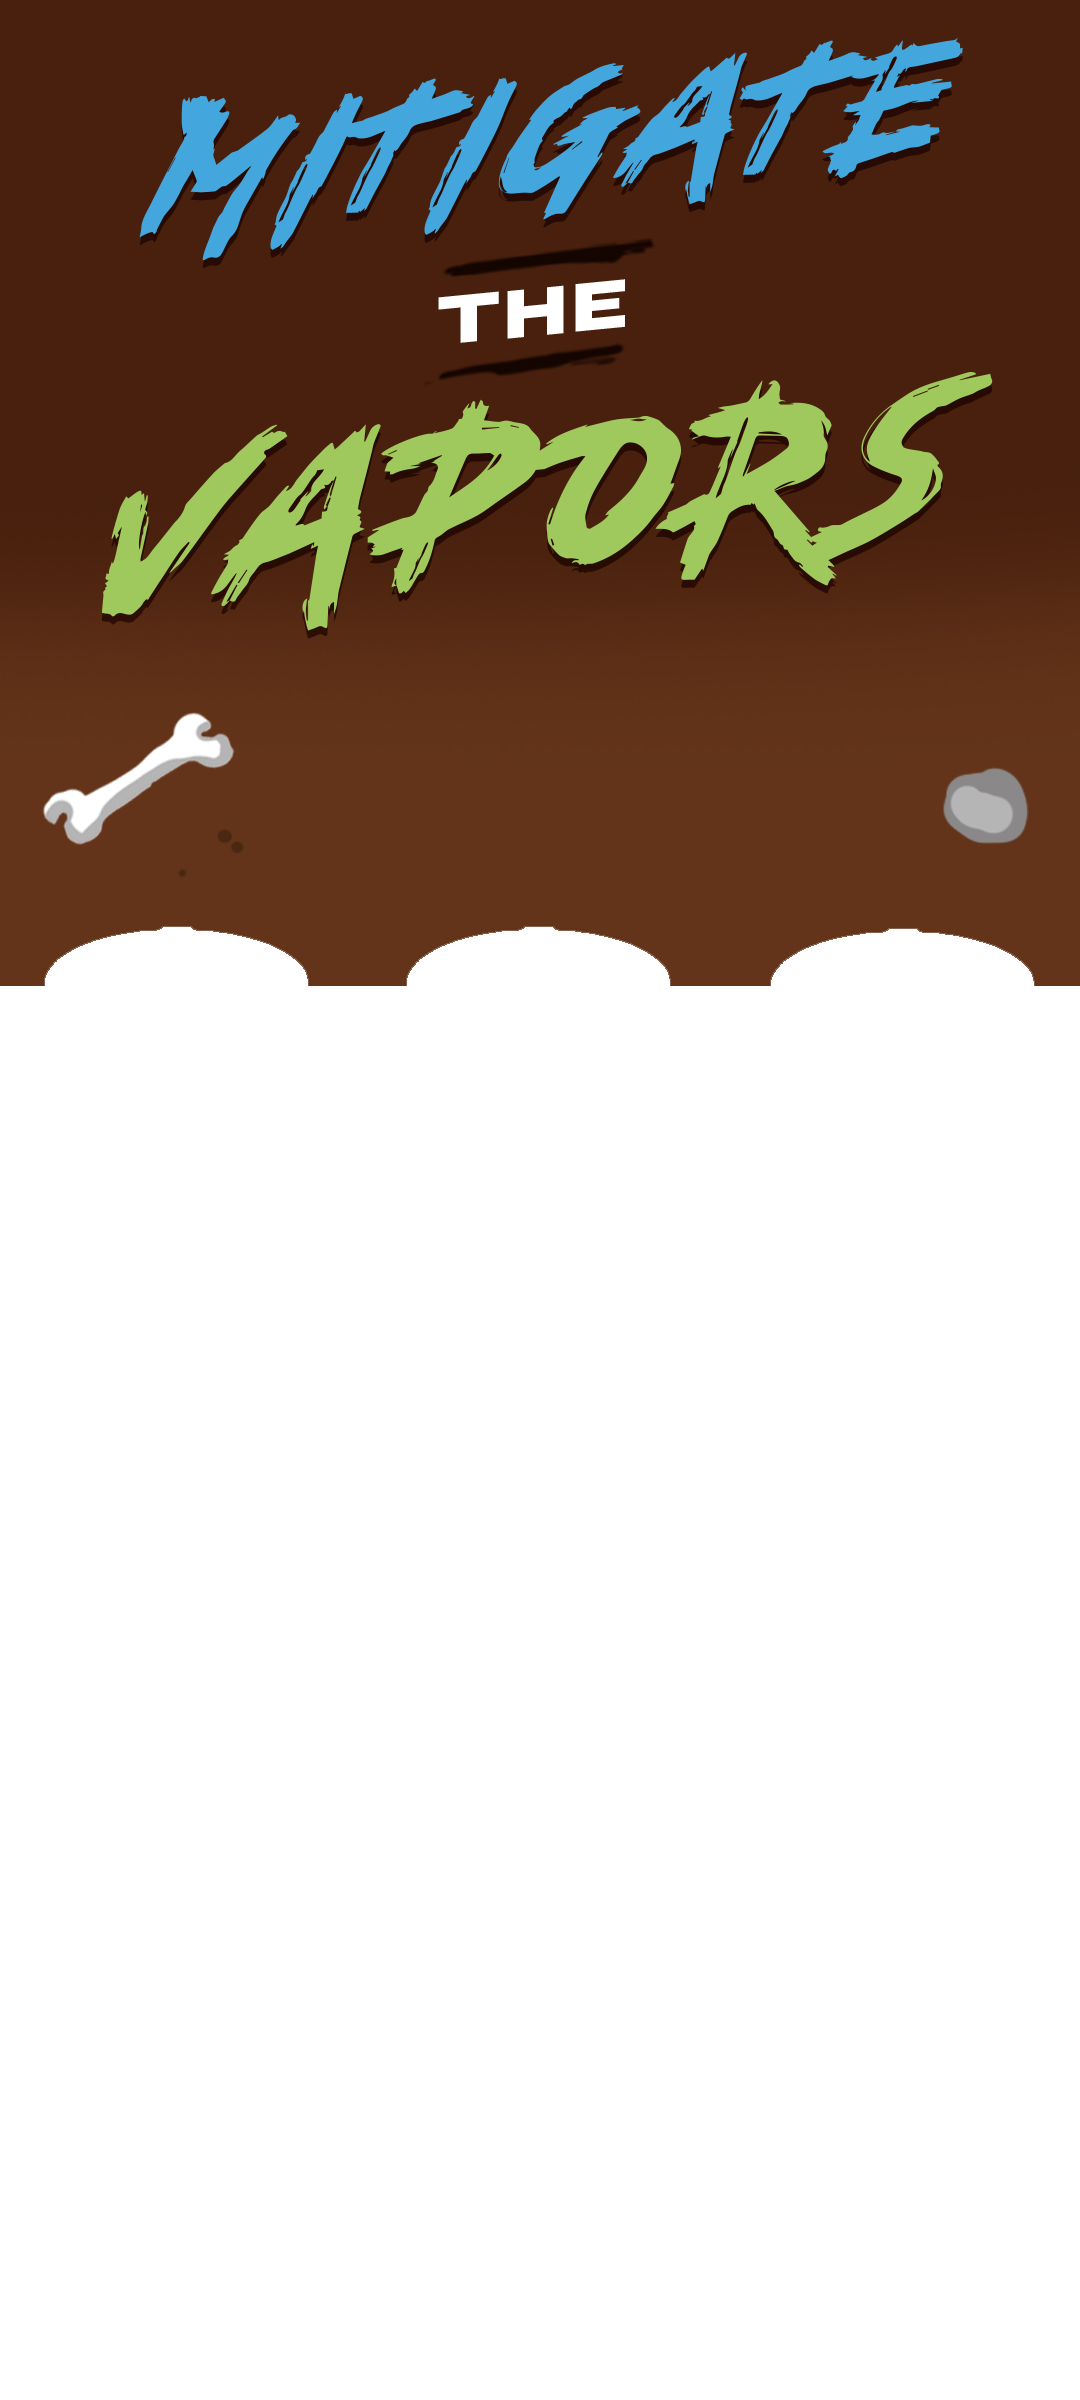
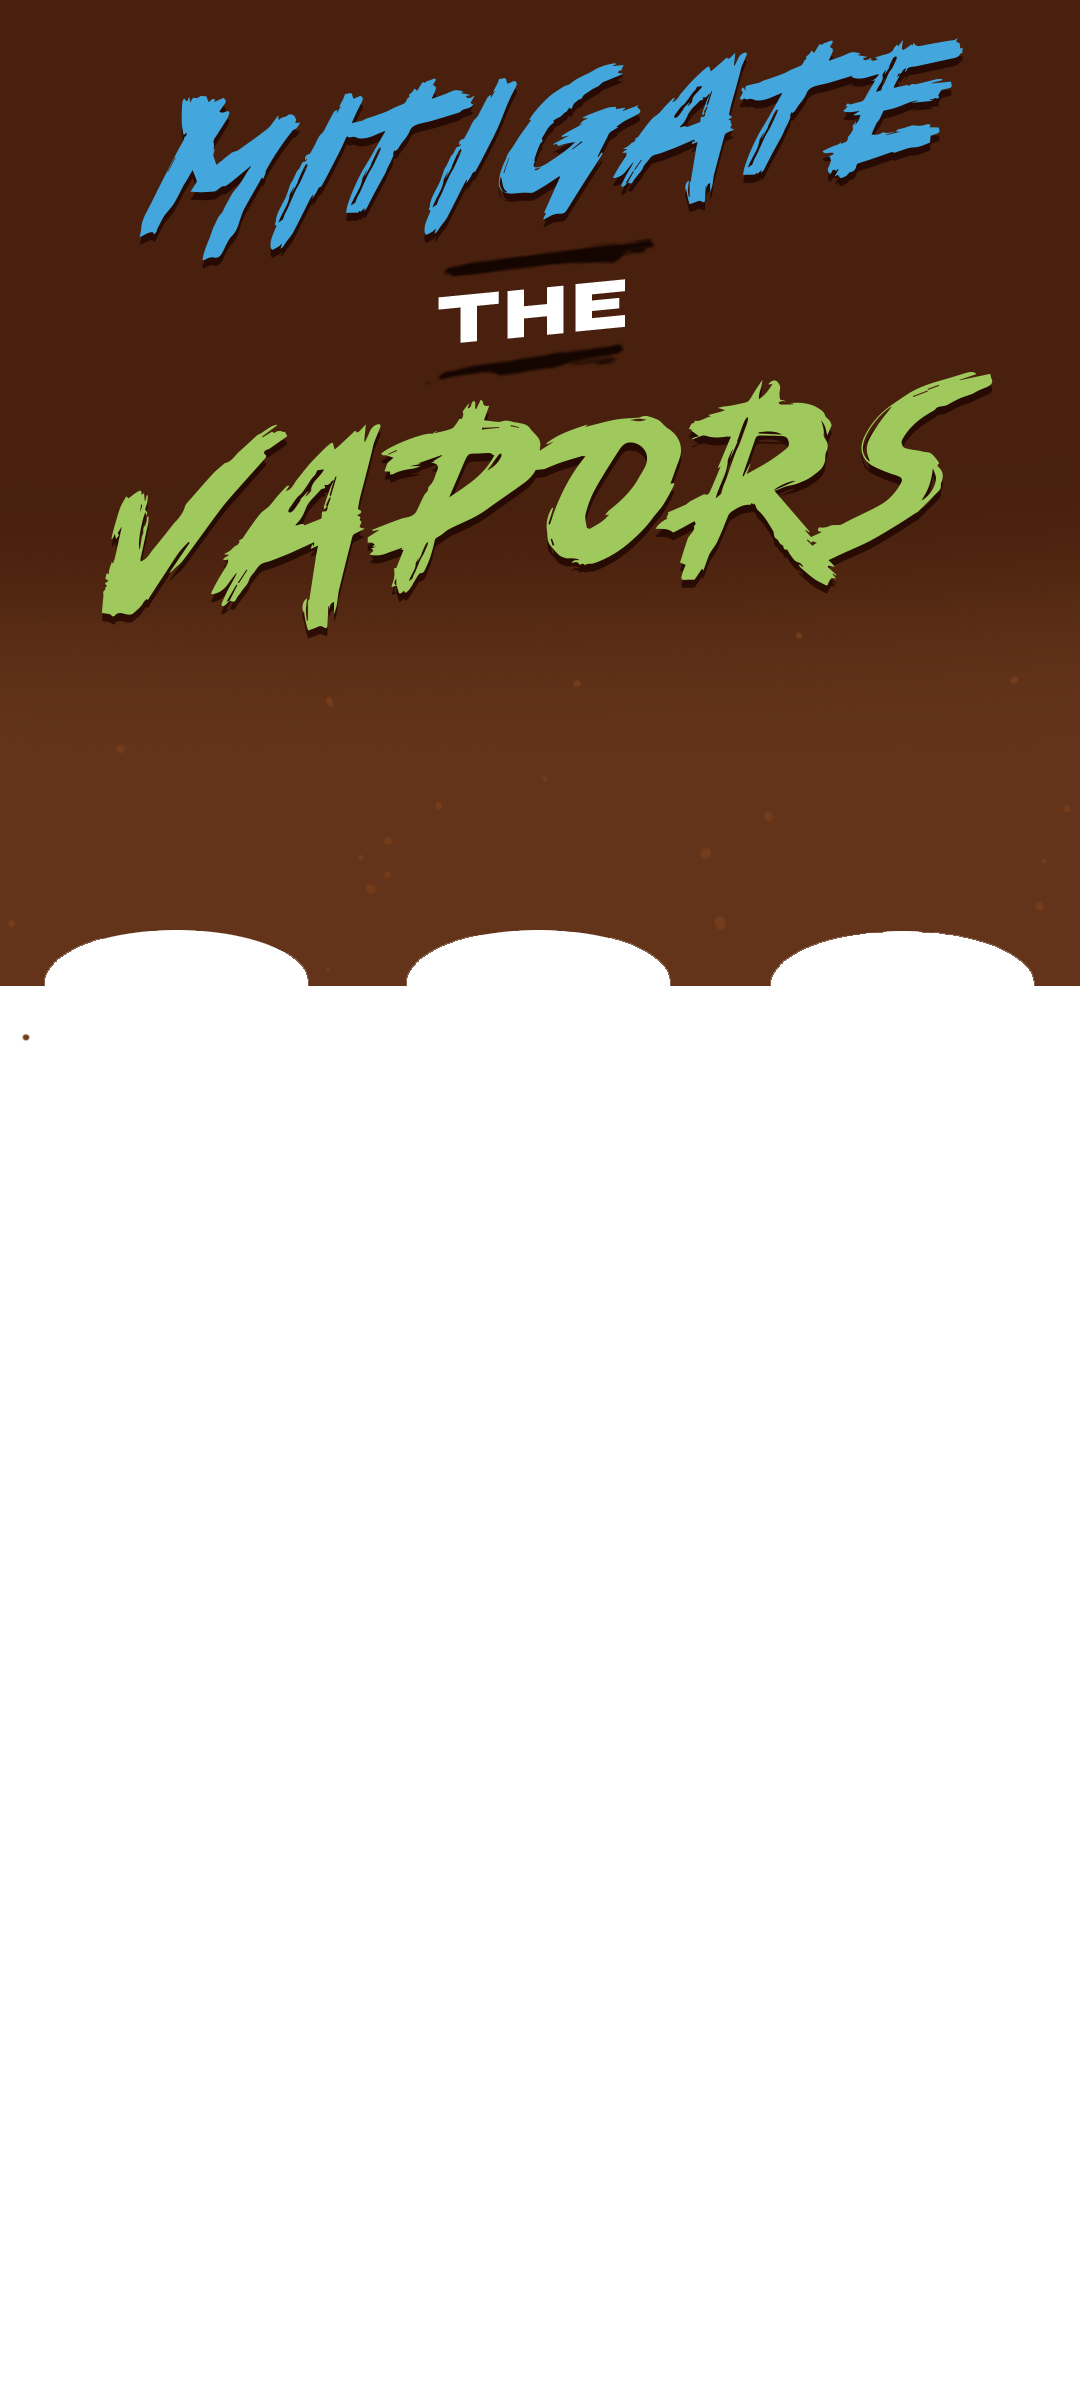
Add files via upload
added intro screen, end screen updated, count down added.

Changed region(s): [[0.0306, 0.2812, 0.2139, 0.375], [0.8556, 0.3125, 0.9472, 0.375]]

diff --git a/index.html b/index.html
@@ -137,13 +137,51 @@
             z-index: 1000;
         }
 
-        #start-button {
+        #intro-screen {
+            position: absolute;
+            left: 0;
+            top: 0;
+            width: 100%;
+            height: 100%;
+            z-index: 2000;
+            display: flex;
+            flex-direction: column;
+            align-items: center;
+            justify-content: center;
+        }
+
+        #play-now-btn {
             position: absolute;
             left: 50%;
-            top: 32%;
+            top: 50%;
             transform: translate(-50%, -50%);
             cursor: pointer;
-            z-index: 1000;
+            z-index: 2001;
+            transition: transform 0.3s;
+        }
+
+        #play-now-btn:hover {
+            transform: translate(-50%, -53%) scale(1.1);
+        }
+
+        #countdown-screen {
+            position: absolute;
+            left: 0;
+            top: 0;
+            width: 100%;
+            height: 100%;
+            z-index: 1900;
+            display: none;
+            justify-content: center;
+            align-items: center;
+        }
+
+        .countdown-number {
+            position: absolute;
+            left: 50%;
+            top: 50%;
+            transform: translate(-50%, -50%);
+            display: none;
         }
 
         #thank-you {
@@ -179,13 +217,13 @@
 
         .game-button {
             display: inline-block;
-            padding: 18px 42px;
-            margin: 10px;
-            background-color: #4CAF50;
+            padding: 30px 73px;
+            margin: 19px;
+            background-color: #77a827;
             color: white;
             text-decoration: none;
-            border-radius: 5px;
-            font-size: 25px;
+            border-radius: 65px;
+            font-size: 45px;
             cursor: pointer;
             border: none;
         }
@@ -205,15 +243,26 @@
 
     <!-- Game Container (for UI only) -->
     <div id="game-container">
-         <!-- Background and Vapor Layers -->
-    <div id="bk5"></div>
-   
-    <div id="bk4"></div>
-    <div id="bk3"></div>
-    <div id="bk2"></div>
-    <div id="vapor-container-1" class="vapor-container"></div>
-    <div id="bk1"></div>
-        <img src="startBtn.png" id="start-button">
+        <!-- Intro Screen -->
+        <div id="intro-screen">
+            <img src="introScreen.png" style="width: 100%; height: 100%; object-fit: cover;">
+            <img src="playNowBtn.png" id="play-now-btn">
+        </div>
+
+        <!-- Countdown Screen -->
+        <div id="countdown-screen">
+            <img src="three.png" class="countdown-number" id="three">
+            <img src="two.png" class="countdown-number" id="two">
+            <img src="one.png" class="countdown-number" id="one">
+        </div>
+
+        <!-- Background and Vapor Layers -->
+        <div id="bk5"></div>
+        <div id="bk4"></div>
+        <div id="bk3"></div>
+        <div id="bk2"></div>
+        <div id="vapor-container-1" class="vapor-container"></div>
+        <div id="bk1"></div>
         <div id="ui-layer">
             <div id="score">Score: 0</div>
             <div id="timer">Time: 60</div>
@@ -265,12 +314,19 @@
 
         // DOM Elements
         const gameContainer = document.getElementById('game-container');
-        const startButton = document.getElementById('start-button');
+        const introScreen = document.getElementById('intro-screen');
+        const playNowBtn = document.getElementById('play-now-btn');
+        const countdownScreen = document.getElementById('countdown-screen');
         const scoreElement = document.getElementById('score');
         const timerElement = document.getElementById('timer');
         const thankYouScreen = document.getElementById('thank-you');
         const vaporContainer = document.getElementById('vapor-container-1');
         const vaporClickSound = document.getElementById('vaporClickSound');
+        
+        // Countdown elements
+        const threeElement = document.getElementById('three');
+        const twoElement = document.getElementById('two');
+        const oneElement = document.getElementById('one');
 
         // Function to play vapor click sound
         function playVaporSound() {
@@ -407,8 +463,62 @@
             });
         }
 
+        // Countdown animation function
+        function startCountdown() {
+            return new Promise((resolve) => {
+                countdownScreen.style.display = 'flex';
+                
+                // Show and animate "3"
+                gsap.fromTo(threeElement, 
+                    { display: 'block', scale: 0, opacity: 0 },
+                    { scale: 1, opacity: 1, duration: 0.5, ease: "back.out(1.7)" }
+                );
+                
+                setTimeout(() => {
+                    gsap.to(threeElement, { scale: 0, opacity: 0, duration: 0.3 });
+                    
+                    // Show and animate "2"
+                    setTimeout(() => {
+                        gsap.fromTo(twoElement,
+                            { display: 'block', scale: 0, opacity: 0 },
+                            { scale: 1, opacity: 1, duration: 0.5, ease: "back.out(1.7)" }
+                        );
+                        
+                        setTimeout(() => {
+                            gsap.to(twoElement, { scale: 0, opacity: 0, duration: 0.3 });
+                            
+                            // Show and animate "1"
+                            setTimeout(() => {
+                                gsap.fromTo(oneElement,
+                                    { display: 'block', scale: 0, opacity: 0 },
+                                    { scale: 1, opacity: 1, duration: 0.5, ease: "back.out(1.7)" }
+                                );
+                                
+                                setTimeout(() => {
+                                    gsap.to(oneElement, { scale: 0, opacity: 0, duration: 0.3 });
+                                    setTimeout(() => {
+                                        countdownScreen.style.display = 'none';
+                                        threeElement.style.display = 'none';
+                                        twoElement.style.display = 'none';
+                                        oneElement.style.display = 'none';
+                                        resolve();
+                                    }, 300);
+                                }, 800);
+                            }, 300);
+                        }, 800);
+                    }, 300);
+                }, 800);
+            });
+        }
+
         // Start game function
-        function startGame() {
+        async function startGame() {
+            // Hide intro screen if visible
+            introScreen.style.display = 'none';
+            
+            // Start countdown
+            await startCountdown();
+            
             gameState.score = 0;
             gameState.timeRemaining = GAME_CONFIG.duration;
             gameState.isPlaying = true;
@@ -418,7 +528,6 @@
             scoreElement.textContent = `Score: ${gameState.score}`;
             timerElement.textContent = `Time: ${gameState.timeRemaining}`;
             
-            startButton.style.display = 'none';
             thankYouScreen.style.display = 'none';
             document.getElementById('ui-layer').style.display = 'flex';
 
@@ -522,7 +631,7 @@
             // Set message based on score
             let message;
             if (gameState.score > 20) {
-                message = "Legendary!<br>Get the right Geo-Seal<sup>®</sup> system<br>for your site needs!";
+                message = "Legendary!<br>Get the right Geo-Seal<sup>®</sup><br>system for your site needs!";
             } else if (gameState.score > 10) {
                 message = "Novice<sup>TM</sup>!<br>Dig deeper into EPRO and Geo-Seal<sup>®</sup> here!";
             } else {
@@ -536,27 +645,10 @@
 
         // Event Listeners
         window.addEventListener('resize', setGameScale);
-        startButton.addEventListener('click', startGame);
+        playNowBtn.addEventListener('click', startGame);
         document.getElementById('play-again').addEventListener('click', () => {
             thankYouScreen.style.display = 'none';
             startGame();
-        });
-
-        // Add snappy bounce hover effect to start button
-        startButton.addEventListener('mouseenter', () => {
-            gsap.to(startButton, {
-                scale: 1.15,
-                duration: 0.3,
-                ease: "elastic.out(1.5, 0.5)"  // Snappier elastic with higher tension
-            });
-        });
-
-        startButton.addEventListener('mouseleave', () => {
-            gsap.to(startButton, {
-                scale: 1,
-                duration: 0.2,
-                ease: "back.out(2)"  // Quick snapback with slight overshoot
-            });
         });
 
         // Initial setup
